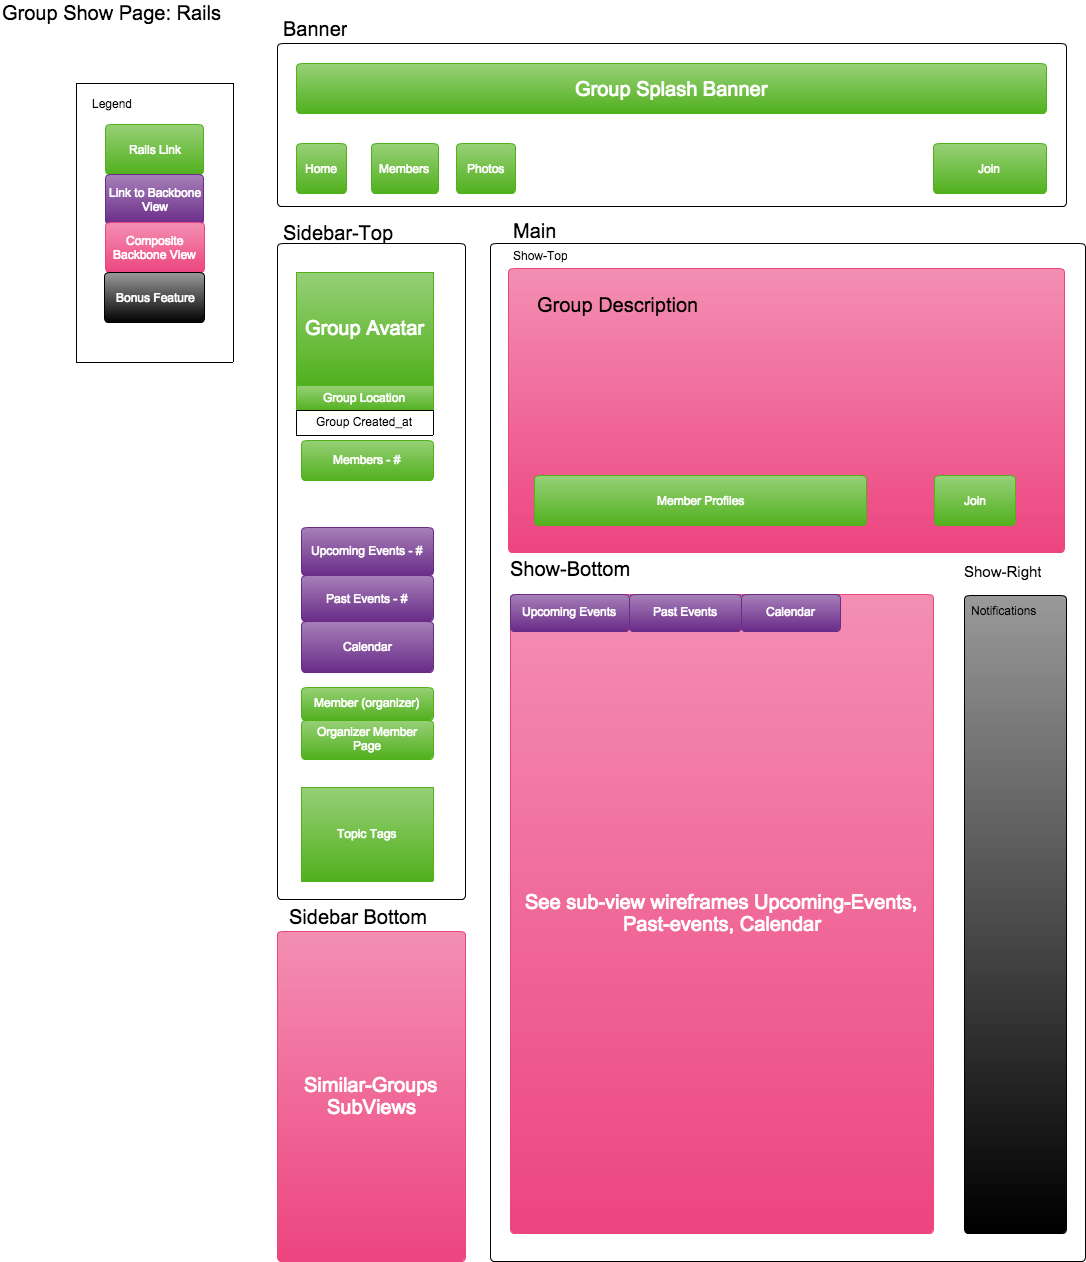
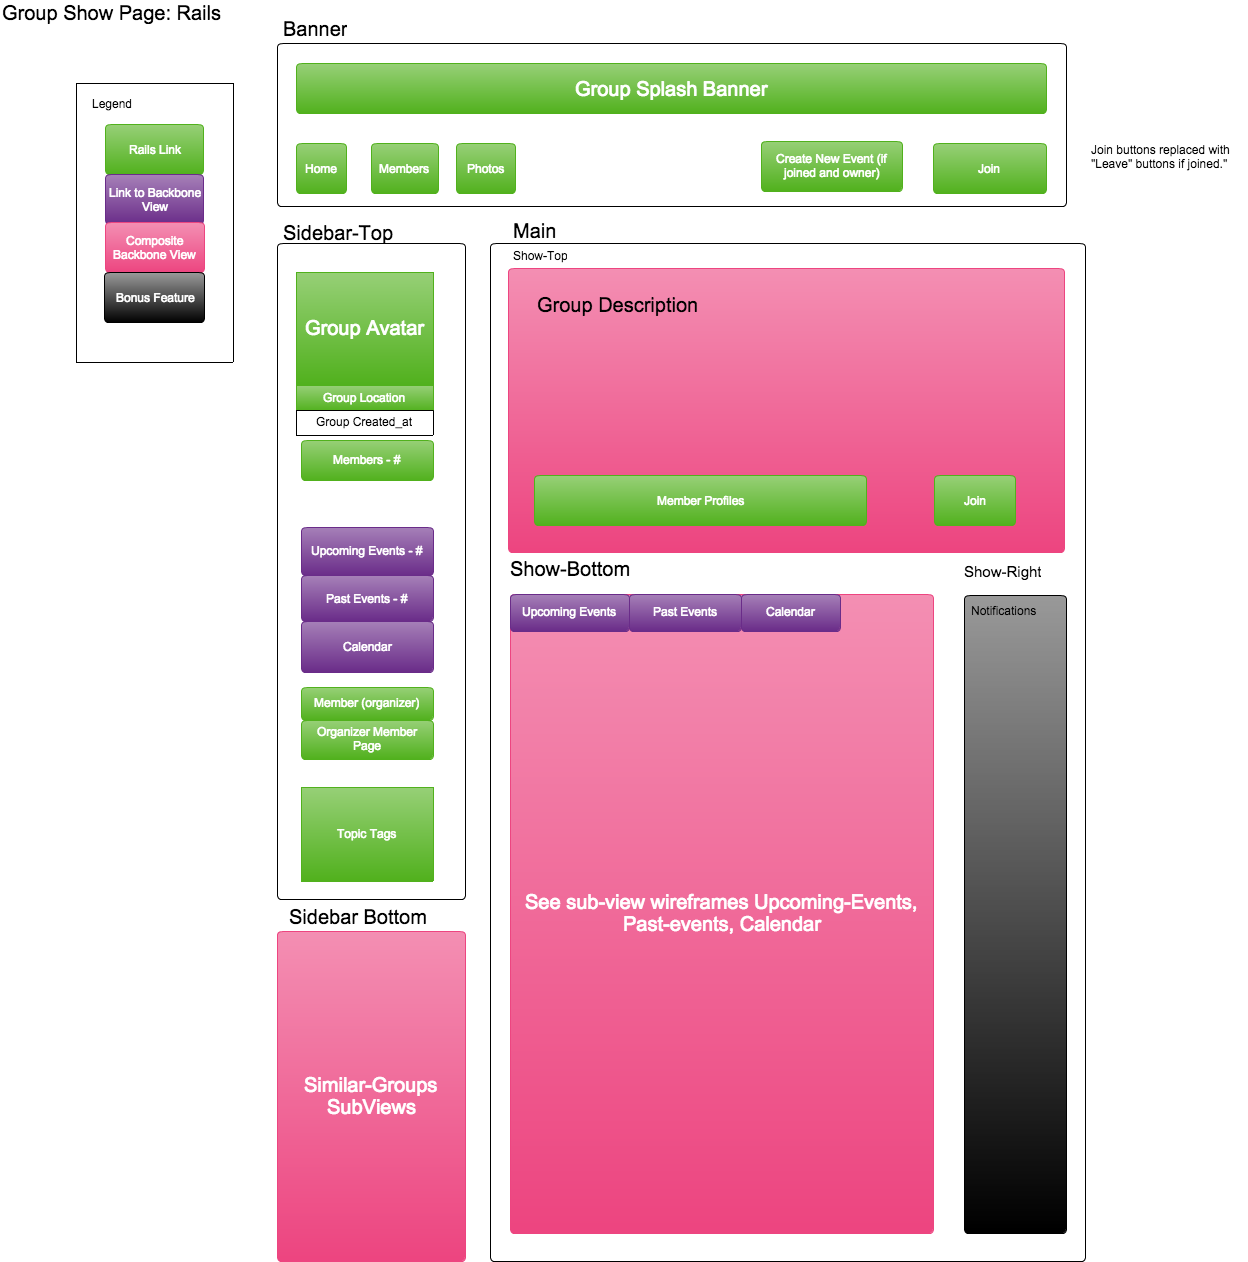
Add categories to schema, add views.

Changed region(s): [[0.0, 0.0, 1.0, 1.0]]

diff --git a/docs/schema.md b/docs/schema.md
@@ -14,7 +14,7 @@ column name | data type | details
 id          | integer   | not null, primary key
 member_id   | integer   | not null, foreign key (references users)
 group_id    | integer   | not null, foreign key (references groups)
-status      | string    | ["member", "organizer"]
+status      | string    | ["member", "organizer", "owner"]
 
 ## events
 column name | data type | details
@@ -48,7 +48,28 @@ column name     | data type | details
 ----------------|-----------|-----------------------
 id              | integer   | not null, primary key
 user_id         | integer   | not null, foreign key (references users)
-descrption      | text      | 
+descrption      | text      |
+
+
+## categories
+column name     | data type | details
+----------------|-----------|-----------------------
+id              | integer   | not null, primary key
+name            | string    | not null
+
+## group-categories
+column name     | data type | details
+----------------|-----------|-----------------------
+id              | integer   | not null, primary key
+group_id        | integer   | not null, foreign key (references groups)
+category_id     | integer   | not null, foreign key (references category)
+
+## user-interests
+column name     | data type | details
+----------------|-----------|-----------------------
+id              | integer   | not null, primary key
+user_id         | integer   | not null, foreign key (references users)
+category_id     | integer   | not null, foreign key (references category)
 
 
 ## sessions

diff --git a/docs/views.md b/docs/views.md
@@ -1,26 +1,34 @@
 # View Wireframes
 
 ## New Session
-![new-session]
+![session-new]
 
-## Feed Show (landing page)
-![feed-show]
+## New User
+![user-new]
 
-## Blog Show
-![blog-show]
+## Groups Index (landing page)
+![groups-index]
 
-## Post Show
-![post-show]
+## Group Show
+![group-show]
 
-## Post Form
-![post-form]
+## Event Show
+![event-show]
 
-## Search Results
-![search-results]
+## Group Form
+![group-new]
 
-[new-session]: ./wireframes/new_session.png
-[feed-show]: ./wireframes/feed_show.png
-[blog-show]: ./wireframes/blog_show.png
-[post-show]: ./wireframes/post_show.png
-[post-form]: ./wireframes/post_form.png
-[search-results]: ./wireframes/search_results.png
+## Event Form
+![event-new]
+
+## User Show
+![user-show]
+
+[session-new]: ./wireframes/session_new.png
+[groups-index]: ./wireframes/groups_index.png
+[group-show]: ./wireframes/group_show.png
+[event-show]: ./wireframes/event_show.png
+[group-new]: ./wireframes/group_new.png
+[event-new]: ./wireframes/event_new.png
+[user-new]: ./wireframes/user_new.png
+[user_show]: ./wireframes/member_show.png

diff --git a/README.md b/README.md
@@ -20,6 +20,7 @@ Rendez-zoo is a clone of MeetUp built on Rails and Backbone. Users can:
 - [ ] View members on group page
 - [ ] Tag group by category
 - [ ] View related groups by shared membership
+- [ ] Edit groups / events / user details
 
 
 ## Design Docs
@@ -82,6 +83,7 @@ collections, but they will fetch from the new `search` routes.
 - [ ] Typeahead search bar
 - [ ] Multiple sessions/session management
 - [ ] Internal messaging system
+- [ ] Internal friend system
 - [ ] Notification system
 - [ ] Photo Album System
 - [ ] Twitter/Facebook/Google integration
